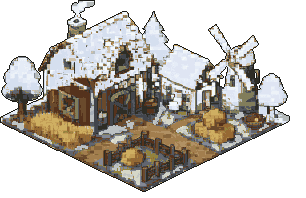
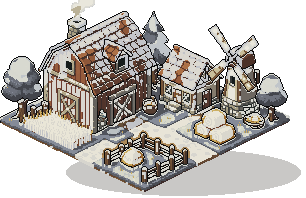
Kış kozmetik: maden3, taş ocağı3, çiftlik3, yıkık çatılar
maden3/tasocagi3/ciftlik3 karlı ve yıkık-karlı sürümleri yaz (yıkık) görselinden
kodla: şekil, ayak izi, boyut birebir. Maden kubbesinde krem-beyaz büyük kar
kümeleri (eski renk %4), soğuk gölgeler; taş ocağı kayası soğutuldu, üst
yüzeylerde 3-4 px kesintisiz kapak; taban plakasının soluk yeşil/bej zemini kar,
ön yüzleri gölgeli kar tonu, gölge elipsi daha açık ve yumuşak kenarlı. Çiftlik3
tarlası ve buğdayı kar altında, tarla çizgileri bir ton koyu. Yıkık+karlı
demirci3, ev3, ciftlik2: turuncu-sarı lekeler soğuk kahve/gri.
Betikler: kis_sprite.py (kozmetik), sahne.py (kale.js gibi sahne birleştirme).

diff --git a/motor-deneme-5b8e2f/uretim/betikler/kis_sprite.py b/motor-deneme-5b8e2f/uretim/betikler/kis_sprite.py
@@ -32,7 +32,7 @@ def gurultu(H, W, tohum=5, s=1.3):
     return g / (g.std() + 1e-6)
 
 
-def kar_sprite(a, kapsam=0.5, bant=0.3, tohum=5, sadece_ust=False, kume=1.3):
+def kar_sprite(a, kapsam=0.5, bant=0.3, tohum=5, sadece_ust=False, kume=1.3, karisim=0.15, yumusak=0.0, kap_kalin=2):
     a = a.copy()
     H, W = a.shape[:2]
     dolu = a[..., 3] > 200
@@ -45,9 +45,11 @@ def kar_sprite(a, kapsam=0.5, bant=0.3, tohum=5, sadece_ust=False, kume=1.3):
         ust_bos = np.zeros_like(dolu); ust_bos[1:] = ~dolu[:-1]; ust_bos[0] = True
         ust_bos |= np.roll(ust_bos, 1, axis=0) & kontur      # just under the outer outline
     kap = yuzey & ust_bos                                   # first surface pixel under air / outline
-    kap2 = np.zeros_like(kap); kap2[1:] = kap[:-1]
     g = gurultu(H, W, tohum, kume)
-    kap |= kap2 & yuzey & (g > -0.2)                        # 2nd row on most of the cap: broken edge
+    kap0 = kap.copy()
+    for d in range(1, kap_kalin):                           # cap depth (2 = old behaviour)
+        kd = np.zeros_like(kap); kd[d:] = kap0[:-d]
+        kap |= kd & yuzey & ((g > -0.2) if d == 1 else (g > -0.6 + 0.3 * d))
     # upper part of each column: about half covered, ragged
     ust_bant = np.zeros_like(dolu)
     for x in np.nonzero(dolu.any(0))[0]:
@@ -59,10 +61,11 @@ def kar_sprite(a, kapsam=0.5, bant=0.3, tohum=5, sadece_ust=False, kume=1.3):
     alan = ust_bant & yuzey & (g > esik) & (lum > 60)
     kar = kap | alan
     # cream tones by the old brightness (lit parts lighter), stripes / shapes shimmer through
-    t = np.clip((200 - lum) / 70, 0, 3)
+    lum_t = ndimage.gaussian_filter(lum, yumusak) if yumusak > 0 else lum   # smoothed: big shade areas
+    t = np.clip((200 - lum_t) / 70, 0, 3)
     t = np.where(kap & ~alan, np.minimum(t, 1), t)
     idx = np.clip(np.round(t), 0, 3).astype(int)
-    c = KREM[idx] * 0.85 + f * 0.15
+    c = KREM[idx] * (1 - karisim) + f * karisim
     a[kar, :3] = np.clip(c[kar], 0, 255).astype(np.uint8)
     return a
 
@@ -252,6 +255,110 @@ def yikik_karli():
     json.dump(J, open(f"{V}/varyantlar.json", "w", encoding="utf-8"), ensure_ascii=False, indent=1)
 
 
+def soguk(a, maske, oran=0.6, mavi=(0.94, 0.99, 1.1)):
+    """Desaturate the masked pixels towards a cold grey."""
+    f = a[..., :3].astype(np.float32)
+    lum = f @ [0.299, 0.587, 0.114]
+    gri = np.stack([lum * mavi[0], lum * mavi[1], lum * mavi[2]], -1)
+    a[maske, :3] = np.clip(f[maske] * (1 - oran) + gri[maske] * oran, 0, 255).astype(np.uint8)
+    return a
+
+
+def taban_kar(a):
+    """Ground plate of a building sprite: pale green / beige ground in the lower band -> snow, the
+    old flat grey shadow ellipse softer and lighter."""
+    a = a.copy()
+    H, W = a.shape[:2]
+    dolu = a[..., 3] > 200
+    f = a[..., :3].astype(np.float32)
+    r, g, b = f[..., 0], f[..., 1], f[..., 2]
+    lum = f @ [0.299, 0.587, 0.114]
+    mx, mn = f.max(-1), f.min(-1)
+    sat = (mx - mn) / np.maximum(mx, 1)
+    alt_y = np.array([np.nonzero(dolu[:, x])[0].max() if dolu[:, x].any() else 0 for x in range(W)])
+    yy = np.arange(H)[:, None]
+    yuk = alt_y.max() - np.nonzero(dolu.any(1))[0].min()
+    bant = dolu & (yy >= alt_y[None, :] - 0.3 * yuk)
+    soluk = bant & (sat < 0.42) & (lum > 85) & (g >= b * 1.02) & ~((mn > 190) & (sat < 0.12))
+    soluk = ndimage.binary_opening(soluk, np.ones((2, 2)))
+    t = np.clip((200 - ndimage.gaussian_filter(lum, 1.0)) / 40, 0, 3) + 0.3 * gurultu(H, W, 41, 2.0)
+    idx = np.clip(np.round(t), 0, 3).astype(int)
+    a[soluk, :3] = np.clip(KREM[idx] * 0.92 + f * 0.08, 0, 255)[soluk].astype(np.uint8)
+    # shadow ellipse (semi-transparent): lighter, cold and with a blurred edge
+    gol = (a[..., 3] > 0) & (a[..., 3] < 200)
+    if gol.any():
+        al = a[..., 3].astype(np.float32)
+        yum = ndimage.gaussian_filter(np.where(gol, al, 0), 1.5)
+        yeni_al = np.where(gol | ((yum > 4) & (a[..., 3] == 0)), np.clip(yum * 0.75, 0, 199), al)
+        a[..., 3] = yeni_al.astype(np.uint8)
+        a[(a[..., 3] > 0) & (a[..., 3] < 200), :3] = (40, 44, 58)
+    return a
+
+
+def kozmetik():
+    """Cosmetic winter fixes for level-3 mine, quarry, farm and the ruined winter roofs.
+    Made from the summer sprites (same shape, footprint, size)."""
+    V = f"{KALE}/varyant"
+    ORJ = "D:/AI/araclar/orijinal/kozmetik"
+    for ad in ("maden3", "tasocagi3", "ciftlik3"):
+        for kind in ("karli", "yikik_karli"):
+            kaynak = f"{KALE}/{ad}.png" if kind == "karli" else f"{V}/{ad}_yikik.png"
+            a = np.asarray(Image.open(kaynak).convert("RGBA")).copy()
+            f = a[..., :3].astype(np.float32)
+            r, g, b = f[..., 0], f[..., 1], f[..., 2]
+            dolu = a[..., 3] > 200
+            if ad == "maden3":
+                # dome: clean cream snow in big joined patches, cold shadows, little brown showing
+                k = kar_sprite(a, kapsam=0.75, bant=0.45, tohum=51, kume=3.5, karisim=0.04, yumusak=1.5, kap_kalin=3)
+            elif ad == "tasocagi3":
+                # rock: continuous 3-4 px caps on every top surface, grey-green cooled
+                a = soguk(a, dolu & (g >= r * 0.95) & (g > b * 1.02), 0.65)
+                k = kar_sprite(a, kapsam=0.5, bant=0.3, tohum=52, kume=3.0, karisim=0.05, yumusak=1.0, kap_kalin=4)
+            else:
+                k = kar_sprite(a, kapsam=0.75, bant=0.34, tohum=53, kume=3.5, karisim=0.05, yumusak=1.2, kap_kalin=3)
+            k, _ = zemin_karla(k, toprak_da=ad != "ciftlik3", plaka=ad != "ciftlik3")
+            if ad == "ciftlik3":
+                # olive field and ground under snow (as white as ciftlik1), furrows faintly visible
+                f2 = k[..., :3].astype(np.float32)
+                r2, g2, b2 = f2[..., 0], f2[..., 1], f2[..., 2]
+                lum2 = f2 @ [0.299, 0.587, 0.114]
+                sat2 = (f2.max(-1) - f2.min(-1)) / np.maximum(f2.max(-1), 1)
+                H, W = lum2.shape
+                d2 = k[..., 3] > 200
+                alt_y = np.array([np.nonzero(d2[:, x])[0].max() if d2[:, x].any() else 0 for x in range(W)])
+                yy = np.arange(H)[:, None]
+                yuk = alt_y.max() - np.nonzero(d2.any(1))[0].min()
+                bant = d2 & (yy >= alt_y[None, :] - 0.42 * yuk)
+                bugday = (r2 > g2 * 1.02) & (g2 > b2 * 1.3) & (lum2 > 85)          # yellow wheat
+                tarla = bant & (((g2 > b2 * 1.12) & (sat2 > 0.18) & (lum2 > 50) & ~((r2 > g2 * 1.35) & (lum2 < 90))) | bugday)
+                mo = ndimage.uniform_filter(lum2, 5)
+                sd = np.sqrt(np.maximum(ndimage.uniform_filter(lum2 ** 2, 5) - mo ** 2, 0))
+                tarla &= sd < 45
+                tarla = ndimage.binary_opening(tarla, np.ones((2, 2)))
+                t = np.clip((170 - lum2) / 55, 0, 2)              # furrows stay a tone darker
+                idx = np.clip(np.round(t), 0, 2).astype(int)
+                k[tarla, :3] = np.clip(KREM[idx] * 0.94 + f2 * 0.06, 0, 255)[tarla].astype(np.uint8)
+            if ad != "ciftlik3":
+                k = taban_kar(k)
+            if kind == "yikik_karli":
+                m = k[..., 3] > 0
+                e = m & ~ndimage.binary_erosion(m)
+                k[e & (k[..., 3] > 200), :3] = (54, 56, 70)
+            Image.fromarray(k, "RGBA").save(f"{V}/{ad}_{kind}.png")
+            print(ad, kind)
+    # ruined winter roofs: orange-yellow ember / tile spots -> cold brown-grey
+    for ad in ("demirci3", "ev3", "ciftlik2"):
+        p = f"{V}/{ad}_yikik_karli.png"
+        a = np.asarray(Image.open(f"{ORJ}/{ad}_yikik_karli.png").convert("RGBA")).copy()
+        f = a[..., :3].astype(np.float32)
+        r, g, b = f[..., 0], f[..., 1], f[..., 2]
+        sat = (f.max(-1) - f.min(-1)) / np.maximum(f.max(-1), 1)
+        turuncu = (a[..., 3] > 200) & (r > g * 1.25) & (g > b * 1.05) & (sat > 0.45) & (r > 110)
+        a = soguk(a, turuncu, 0.75, mavi=(0.98, 0.95, 0.98))
+        Image.fromarray(a, "RGBA").save(p)
+        print(ad, "yikik_karli turuncu", int(turuncu.sum()))
+
+
 def sakin_cati(ad):
     """ic2 barn / barracks winter roofs: the old snow is a noisy checker; smooth it into 3 cream tones."""
     p = f"{KALE}/sus/ic2/{ad}_karli.png"
@@ -305,7 +412,9 @@ def sapel():
 
 
 if __name__ == "__main__":
-    if sys.argv[1] == "sapel":
+    if sys.argv[1] == "kozmetik":
+        kozmetik()
+    elif sys.argv[1] == "sapel":
         sapel()
     elif sys.argv[1] == "cati":
         for ad in ("ahir", "kisla"):

diff --git a/motor-deneme-5b8e2f/uretim/betikler/sahne.py b/motor-deneme-5b8e2f/uretim/betikler/sahne.py
@@ -1,0 +1,104 @@
+"""Offline render of the inner-castle scene like kale.js + varyant.js draw it (for comparison shots
+when the game cannot be run in a visible browser).
+
+Layers: background, path layer, buildings (depth (disari ? 30 : 10) + dipY*O/2000), decorations
+(same rule with their y), front walls at depth 20. Textures / tints follow varyant.js:
+winter -> *_karli (else tint 0xcfdbec), winter + damage -> kv_*_yikik_karli, winter night -> *_karli
++ tint 0x56648c, summer night -> *_gece (+ 0x... ) or tint.
+
+  python sahne.py <out.png> [seviye=3]
+"""
+import json
+import os
+import sys
+
+import numpy as np
+from PIL import Image
+
+K = "D:/AI/son-kale/motor-deneme-5b8e2f/assets/kale"
+O = 3
+TON = {"karli": (0xcf, 0xdb, 0xec), "gece": (0x56, 0x64, 0x8c)}
+
+
+def tint(im, rgb):
+    a = np.asarray(im.convert("RGBA")).astype(np.float32)
+    a[..., :3] *= np.array(rgb) / 255.0
+    return Image.fromarray(a.clip(0, 255).astype(np.uint8), "RGBA")
+
+
+def yukle(p):
+    return Image.open(p).convert("RGBA") if os.path.exists(p) else None
+
+
+def sahne(seviye=3, kis=True, hasar=False, gece=False):
+    M = json.load(open(f"{K}/kale.json", encoding="utf-8"))
+    L = json.load(open(f"{K}/kale_ic2.json", encoding="utf-8"))
+    hal = "yikik" if hasar else ("gece" if gece else ("karli" if kis else None))
+
+    def doku(temel_yol, var_yol_fn, is_bina):
+        temel = yukle(temel_yol)
+        if hal == "gece":
+            if kis and var_yol_fn("karli") and yukle(var_yol_fn("karli")):
+                return tint(yukle(var_yol_fn("karli")), TON["gece"])
+            g = var_yol_fn("gece") and yukle(var_yol_fn("gece"))
+            return g if g is not None else tint(temel, TON["gece"])
+        if hal == "yikik":
+            if kis and var_yol_fn("yikik_karli") and yukle(var_yol_fn("yikik_karli")):
+                return yukle(var_yol_fn("yikik_karli"))
+            y = var_yol_fn("yikik") and yukle(var_yol_fn("yikik"))
+            if is_bina:
+                return y if y is not None else temel
+            k = var_yol_fn("karli") and yukle(var_yol_fn("karli"))
+            return k if (kis and k is not None) else temel
+        if hal == "karli":
+            k = var_yol_fn("karli") and yukle(var_yol_fn("karli"))
+            return k if k is not None else tint(temel, TON["karli"])
+        return temel
+
+    arka = yukle(f"{K}/arka_karli.png" if kis else f"{K}/arka.png")
+    if gece:
+        arka = tint(arka, TON["gece"])
+    tuval = arka.copy()
+    z = yukle(f"{K}/sus/ic2/zemin.png")
+    if z is not None:
+        z = tint(z, TON["gece"] if gece else TON["karli"]) if kis or gece else z
+        tuval.alpha_composite(z)
+    nesneler = []
+    for k_, m in M["binalar"].items():
+        if not k_.endswith(str(seviye)):
+            continue
+        im = doku(f"{K}/{k_}.png", lambda h, k_=k_: f"{K}/varyant/{k_}_{h}.png", True)
+        im = im.resize((round(im.width * (m.get("piksel") or O)), round(im.height * (m.get("piksel") or O))), Image.NEAREST) if (m.get("piksel") or O) != 1 else im
+        nesneler.append(((30 if m.get("disari") else 10) + m["dipY"] * O / 2000, im, (round(m["x"] * O), round(m["y"] * O))))
+    sus = [dict(s) for s in M.get("susler", [])] + [dict(s, ad="ic2/" + s["ad"]) for s in L.get("susler", [])]
+    for s in sus:
+        p = f"{K}/sus/{s['ad']}.png"
+        im = doku(p, lambda h, s=s: f"{K}/sus/{s['ad']}_{h}.png", False)
+        if im is None:
+            continue
+        pk = s.get("piksel") or 1
+        if pk != 1:
+            im = im.resize((round(im.width * pk), round(im.height * pk)), Image.NEAREST)
+        if s.get("ayna"):
+            im = im.transpose(Image.FLIP_LEFT_RIGHT)
+        nesneler.append(((30 if s.get("disari") else 10) + s["y"] / 2000, im, (round(s["x"] - im.width / 2), round(s["y"] - im.height))))
+    on = yukle(f"{K}/on_karli.png" if kis else f"{K}/on.png")
+    if gece:
+        on = tint(on, TON["gece"])
+    nesneler.append((20, on, (round(M["on"]["x"] * O), round(M["on"]["y"] * O))))
+    for _, im, (x, y) in sorted(nesneler, key=lambda t: t[0]):
+        tuval.alpha_composite(im, (x, y))
+    return tuval.convert("RGB")
+
+
+if __name__ == "__main__":
+    out = sys.argv[1]
+    sv = int(sys.argv[2]) if len(sys.argv) > 2 else 3
+    hal = [("kis seviye 3", dict(kis=True)), ("kis + hasar", dict(kis=True, hasar=True)), ("kis gecesi", dict(kis=True, gece=True))]
+    ims = [sahne(sv, **kw) for _, kw in hal]
+    W = Image.new("RGB", (960 * 3 + 20, 540), (30, 30, 30))
+    for i, im in enumerate(ims):
+        W.paste(im.resize((960, 540), Image.BOX), (i * 970, 0))
+        im.save(out.replace(".png", f"_{i}.png"))
+    W.save(out)
+    print(out)
